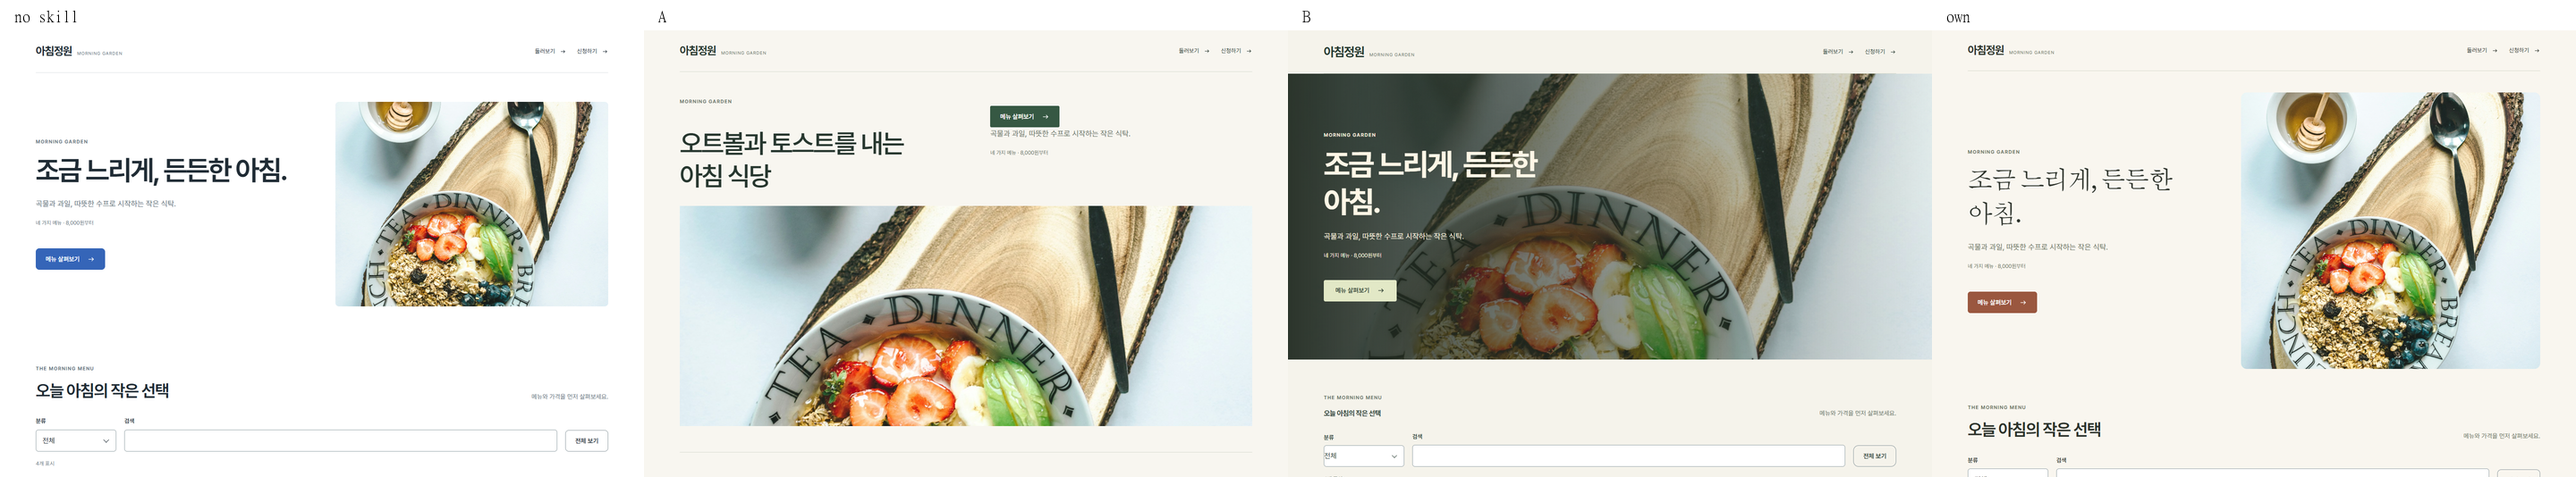
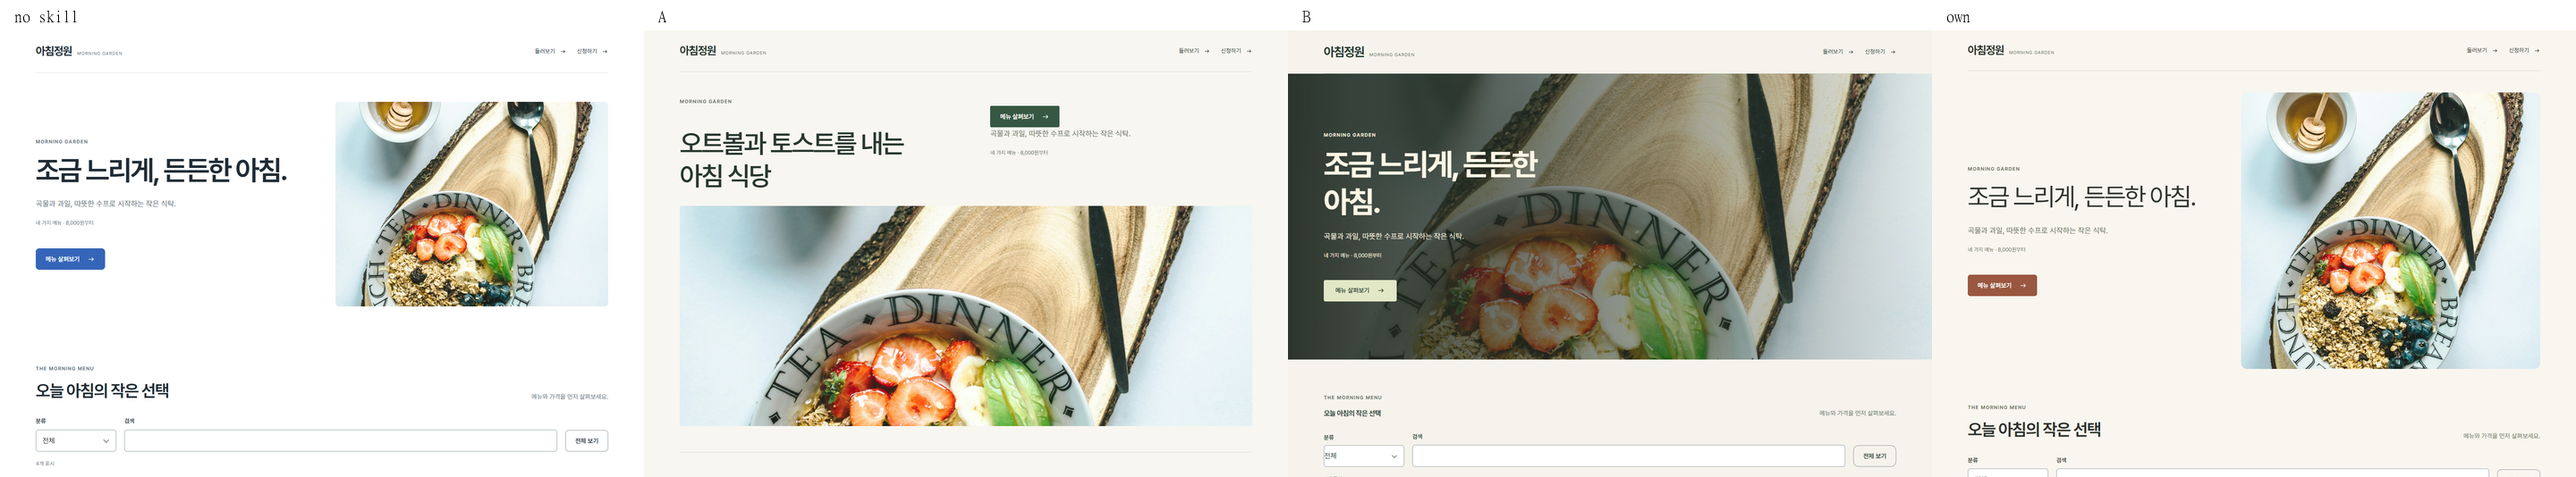
Use Pretendard as the default design font

Changed region(s): [[0.75, 0.2996, 0.875, 0.6592]]

diff --git a/src/own.css b/src/own.css
@@ -1,6 +1,6 @@
 /* 자체 스킬:자료·행동 관계, 구간 연결, 정보 묶음과 조건별 이동을 함께 설계한다. */
 body[data-category=local],body[data-category=professional]{--accent:#526247}body[data-category=restaurant]{--accent:#9a573f}body[data-category=portfolio]{--accent:#80523b}body[data-category=event]{--accent:#31566a}
-body{--paper:#f9f6ef;--ink:#2d332c;--muted:#687060;--line:#d7d9cb;--accent:#75563d;--soft:#eeeadf;--radius:9px}.site-header{padding-block:23px}.hero{padding-top:48px;padding-bottom:36px;gap:64px}.hero h1{font-size:clamp(40px,4.1vw,61px);font-weight:550}.hero-copy .btn{border-radius:6px}.hero-photo{border-radius:13px}.hero-brand{grid-template-columns:minmax(0,.95fr) minmax(0,1.05fr)}.hero-brand .hero-photo{aspect-ratio:1.35}.hero-brand+.collection{padding-top:38px}.hero-local{--accent:#586247;grid-template-columns:minmax(0,1fr) minmax(0,1.15fr);padding-bottom:22px}.hero-local .hero-photo{aspect-ratio:1.13;object-position:center 50%}.intro-note{background:#e9eddf;border-color:#c3cdb7;color:#31412d}.intro-note>span{display:inline-flex;padding:9px 13px;background:#f9faf4;border:1px solid #c3cdb7;border-radius:5px}.intro-note+.collection{padding-top:48px}.hero-restaurant{display:grid;grid-template-columns:minmax(0,.9fr) minmax(0,1.1fr);--accent:#9a573f}.hero-restaurant .hero-photo{aspect-ratio:1.08;object-position:50% 50%}.hero-restaurant h1{font-family:Georgia,'Batang',serif;font-weight:400;line-height:1.35;font-size:56px}.hero-restaurant+.collection{padding-top:42px}.menu-item{padding:26px 0}.menu-item .item-index{color:#a46147;border:1px solid #cba994;border-radius:50%;display:grid;place-items:center;min-height:27px;padding:0}.hero-portfolio{grid-template-columns:minmax(0,1fr);gap:26px}.hero-portfolio .hero-copy{display:grid;grid-template-columns:1.3fr 1fr;gap:0 40px}.hero-portfolio .hero-copy .eyebrow{grid-column:1}.hero-portfolio h1{grid-column:1;grid-row:2/4;max-width:15ch;margin-bottom:0}.hero-portfolio .hero-description{grid-column:2;grid-row:2;font-size:15px}.hero-portfolio .hero-copy>.btn{grid-column:2;justify-self:start;background:transparent;border:0;border-radius:0;border-bottom:1px solid var(--line);color:var(--ink);padding:12px 0;margin-top:16px}.hero-works{grid-template-columns:minmax(0,1.4fr) minmax(0,1fr);gap:26px;align-items:center}.hero-work{border-radius:12px;background:#e6e8df;padding:12px}.hero-work:nth-child(2){background:#ece1d4;transform:translateY(16px)}.hero-portfolio+.collection{padding-top:54px}.work-card .image-button{padding:12px;background:#e6e8df}.work-card:nth-child(2) .image-button{background:#eee0d2}.work-card:nth-child(3) .image-button{background:#dce7d1}.work-card .image-button img{aspect-ratio:1.5;border-radius:5px}.item-meta h3{font-weight:600}.hero-professional{--accent:#526247;gap:62px}.hero-professional .document{position:relative;isolation:isolate;background:#f0f1e6;border:1px solid #bdc7ad;border-radius:12px;padding:28px 30px;box-shadow:0 12px 30px #3045250c}.hero-professional .document:before{content:'';position:absolute;inset:0;transform:translate(7px,8px) rotate(-1.3deg);background:#dee5d1;border:1px solid #c8d0bb;border-radius:12px;z-index:-1;pointer-events:none}.document h2{font-weight:550;max-width:15ch}.document dl>div{grid-template-columns:78px minmax(0,1fr);padding:20px 0}.document dt{color:#526247}.hero-professional+.section{padding-top:58px}.service-panel{background:#354232;color:#f6f5e8;border-radius:12px}.service-panel>p{color:#d5ddca}.service-panel li{border-color:#65715c}.service-panel .text-button{color:#edf0e0}.service-option[aria-pressed=true]{background:#e5e9d8}.request-section{border-top:1px solid var(--line);padding-top:60px}.request-intro .demo-note{font-size:12px}.hero-event{width:100%;grid-template-columns:minmax(0,1fr);background:#233f51;color:#f9f2df;padding:38px max(48px,calc((100% - 1280px)/2)) 35px;gap:30px}.hero-event .hero-copy{display:grid;grid-template-columns:minmax(0,1.2fr) minmax(0,1fr);gap:16px 50px}.hero-event .eyebrow{color:#d8e1df}.hero-event h1{grid-column:1;grid-row:2/4;font-size:52px;max-width:16ch}.hero-event .hero-description,.hero-event .hero-fact{color:#d4ddd9;grid-column:2}.hero-event .hero-copy>.btn{grid-column:2;justify-self:start;background:#e2b36f;border-color:#e2b36f;color:#243e4a;margin:0}.hero-event .event-poster{min-height:230px;background:transparent;border-top:1px solid #6b8390;border-radius:0;padding:22px 0 0;display:grid;grid-template-columns:1fr auto;align-items:end;gap:16px;color:#e2b36f}.hero-event .event-poster>span{font-size:20px;grid-column:1}.hero-event .event-poster strong{grid-column:1;font-size:112px;font-weight:650}.hero-event .poster-lines{grid-column:2;grid-row:1/3;height:120px;align-self:center;gap:13px}.hero-event .poster-lines i{width:35px}.hero-event .event-poster small{grid-column:1/-1;color:#c4d2d5}.program{display:grid;grid-template-columns:minmax(180px,.7fr) minmax(0,2fr);gap:45px}.program .section-heading{display:block;margin:0}.program .section-heading>p{margin-top:18px}.program h2{font-size:33px}.program .schedule{min-width:0}.program .session summary{grid-template-columns:108px minmax(0,1fr) 26px;gap:18px;padding:22px 0}.program .session>p{margin-left:126px}.program .day{min-height:68px;border-radius:6px}.program .day[aria-pressed=true]{background:#e6ebed;color:#254b60;border-color:#95a9af}.program .schedule-toolbar{gap:16px}.program .session strong{font-size:20px}.app-layout{--accent:#37668e;--soft:#edf2f7;--line:#d5e0e7;grid-template-columns:minmax(0,1fr);max-width:1180px}.workspace-nav{display:none}.task-panel{box-shadow:0 7px 24px #2e587107;background:#fff}.task-app .submit,.task-app .btn{border-radius:6px}.app-heading h1{font-weight:600}.product-grid .product-card .save-button{border:0;border-bottom:1px solid var(--line);border-radius:0;background:transparent;justify-content:flex-start;padding-left:0}.product-grid .product-card .save-button[aria-pressed=true]{color:#84502e}.course .choose[aria-pressed=true]{background:#e8ecdf;color:#3c5434;border-color:#849276}
+body{--paper:#f9f6ef;--ink:#2d332c;--muted:#687060;--line:#d7d9cb;--accent:#75563d;--soft:#eeeadf;--radius:9px}.site-header{padding-block:23px}.hero{padding-top:48px;padding-bottom:36px;gap:64px}.hero h1{font-size:clamp(40px,4.1vw,61px);font-weight:550}.hero-copy .btn{border-radius:6px}.hero-photo{border-radius:13px}.hero-brand{grid-template-columns:minmax(0,.95fr) minmax(0,1.05fr)}.hero-brand .hero-photo{aspect-ratio:1.35}.hero-brand+.collection{padding-top:38px}.hero-local{--accent:#586247;grid-template-columns:minmax(0,1fr) minmax(0,1.15fr);padding-bottom:22px}.hero-local .hero-photo{aspect-ratio:1.13;object-position:center 50%}.intro-note{background:#e9eddf;border-color:#c3cdb7;color:#31412d}.intro-note>span{display:inline-flex;padding:9px 13px;background:#f9faf4;border:1px solid #c3cdb7;border-radius:5px}.intro-note+.collection{padding-top:48px}.hero-restaurant{display:grid;grid-template-columns:minmax(0,.9fr) minmax(0,1.1fr);--accent:#9a573f}.hero-restaurant .hero-photo{aspect-ratio:1.08;object-position:50% 50%}.hero-restaurant h1{font-family:var(--font);font-weight:400;line-height:1.35;font-size:56px}.hero-restaurant+.collection{padding-top:42px}.menu-item{padding:26px 0}.menu-item .item-index{color:#a46147;border:1px solid #cba994;border-radius:50%;display:grid;place-items:center;min-height:27px;padding:0}.hero-portfolio{grid-template-columns:minmax(0,1fr);gap:26px}.hero-portfolio .hero-copy{display:grid;grid-template-columns:1.3fr 1fr;gap:0 40px}.hero-portfolio .hero-copy .eyebrow{grid-column:1}.hero-portfolio h1{grid-column:1;grid-row:2/4;max-width:15ch;margin-bottom:0}.hero-portfolio .hero-description{grid-column:2;grid-row:2;font-size:15px}.hero-portfolio .hero-copy>.btn{grid-column:2;justify-self:start;background:transparent;border:0;border-radius:0;border-bottom:1px solid var(--line);color:var(--ink);padding:12px 0;margin-top:16px}.hero-works{grid-template-columns:minmax(0,1.4fr) minmax(0,1fr);gap:26px;align-items:center}.hero-work{border-radius:12px;background:#e6e8df;padding:12px}.hero-work:nth-child(2){background:#ece1d4;transform:translateY(16px)}.hero-portfolio+.collection{padding-top:54px}.work-card .image-button{padding:12px;background:#e6e8df}.work-card:nth-child(2) .image-button{background:#eee0d2}.work-card:nth-child(3) .image-button{background:#dce7d1}.work-card .image-button img{aspect-ratio:1.5;border-radius:5px}.item-meta h3{font-weight:600}.hero-professional{--accent:#526247;gap:62px}.hero-professional .document{position:relative;isolation:isolate;background:#f0f1e6;border:1px solid #bdc7ad;border-radius:12px;padding:28px 30px;box-shadow:0 12px 30px #3045250c}.hero-professional .document:before{content:'';position:absolute;inset:0;transform:translate(7px,8px) rotate(-1.3deg);background:#dee5d1;border:1px solid #c8d0bb;border-radius:12px;z-index:-1;pointer-events:none}.document h2{font-weight:550;max-width:15ch}.document dl>div{grid-template-columns:78px minmax(0,1fr);padding:20px 0}.document dt{color:#526247}.hero-professional+.section{padding-top:58px}.service-panel{background:#354232;color:#f6f5e8;border-radius:12px}.service-panel>p{color:#d5ddca}.service-panel li{border-color:#65715c}.service-panel .text-button{color:#edf0e0}.service-option[aria-pressed=true]{background:#e5e9d8}.request-section{border-top:1px solid var(--line);padding-top:60px}.request-intro .demo-note{font-size:12px}.hero-event{width:100%;grid-template-columns:minmax(0,1fr);background:#233f51;color:#f9f2df;padding:38px max(48px,calc((100% - 1280px)/2)) 35px;gap:30px}.hero-event .hero-copy{display:grid;grid-template-columns:minmax(0,1.2fr) minmax(0,1fr);gap:16px 50px}.hero-event .eyebrow{color:#d8e1df}.hero-event h1{grid-column:1;grid-row:2/4;font-size:52px;max-width:16ch}.hero-event .hero-description,.hero-event .hero-fact{color:#d4ddd9;grid-column:2}.hero-event .hero-copy>.btn{grid-column:2;justify-self:start;background:#e2b36f;border-color:#e2b36f;color:#243e4a;margin:0}.hero-event .event-poster{min-height:230px;background:transparent;border-top:1px solid #6b8390;border-radius:0;padding:22px 0 0;display:grid;grid-template-columns:1fr auto;align-items:end;gap:16px;color:#e2b36f}.hero-event .event-poster>span{font-size:20px;grid-column:1}.hero-event .event-poster strong{grid-column:1;font-size:112px;font-weight:650}.hero-event .poster-lines{grid-column:2;grid-row:1/3;height:120px;align-self:center;gap:13px}.hero-event .poster-lines i{width:35px}.hero-event .event-poster small{grid-column:1/-1;color:#c4d2d5}.program{display:grid;grid-template-columns:minmax(180px,.7fr) minmax(0,2fr);gap:45px}.program .section-heading{display:block;margin:0}.program .section-heading>p{margin-top:18px}.program h2{font-size:33px}.program .schedule{min-width:0}.program .session summary{grid-template-columns:108px minmax(0,1fr) 26px;gap:18px;padding:22px 0}.program .session>p{margin-left:126px}.program .day{min-height:68px;border-radius:6px}.program .day[aria-pressed=true]{background:#e6ebed;color:#254b60;border-color:#95a9af}.program .schedule-toolbar{gap:16px}.program .session strong{font-size:20px}.app-layout{--accent:#37668e;--soft:#edf2f7;--line:#d5e0e7;grid-template-columns:minmax(0,1fr);max-width:1180px}.workspace-nav{display:none}.task-panel{box-shadow:0 7px 24px #2e587107;background:#fff}.task-app .submit,.task-app .btn{border-radius:6px}.app-heading h1{font-weight:600}.product-grid .product-card .save-button{border:0;border-bottom:1px solid var(--line);border-radius:0;background:transparent;justify-content:flex-start;padding-left:0}.product-grid .product-card .save-button[aria-pressed=true]{color:#84502e}.course .choose[aria-pressed=true]{background:#e8ecdf;color:#3c5434;border-color:#849276}
 @media(hover:hover) and (prefers-reduced-motion:no-preference){.btn .arrow,.text-button .arrow{transition:transform 260ms cubic-bezier(.22,.61,.36,1)}.btn:hover .arrow,.text-button:hover .arrow{transform:translateX(3px)}.image-button{transition:transform 420ms cubic-bezier(.22,.61,.36,1)}.image-button:hover,.image-button:focus-visible{transform:translateY(-4px)}.image-button img{transition:transform 520ms cubic-bezier(.22,.61,.36,1)}.image-button:hover img{transform:scale(1.02)}.hero-work{transition:transform 450ms cubic-bezier(.22,.61,.36,1)}.hero-work:hover,.hero-work:focus-visible{transform:translateY(-4px)}.hero-work:nth-child(2):hover,.hero-work:nth-child(2):focus-visible{transform:translateY(11px)}.toggle-icon{transition:transform 240ms cubic-bezier(.22,.61,.36,1)}}
 @media(prefers-reduced-motion:no-preference){.hero-media{animation:own-scene 650ms cubic-bezier(.22,.61,.36,1) both}@keyframes own-scene{from{opacity:0;translate:0 12px}to{opacity:1;translate:0 0}}}
 @media(max-width:1050px){.hero{gap:32px}.hero h1{font-size:44px}.hero-restaurant h1{font-size:46px}.hero-event{padding-inline:32px}.hero-event .hero-copy{gap:16px 32px}.hero-event h1{font-size:43px}.program{grid-template-columns:minmax(0,1fr);gap:28px}.program .section-heading{display:flex;align-items:start;gap:28px}.program h2{max-width:15ch}.program .section-heading>p{margin-top:0}.hero-professional .document{padding:24px}.hero-portfolio .hero-copy{gap:0 32px}}

diff --git a/skills/korean-ui-design/references/typography.md b/skills/korean-ui-design/references/typography.md
@@ -4,11 +4,13 @@
 
 Pretendard는 한글과 라틴 문자를 함께 쓸 수 있다. 본문을 한글·영문으로 무조건 분리할 필요는 없다. Apple SD Gothic Neo를 대표 영문 글꼴로 설명하지 않는다. Apple 플랫폼의 대표 시스템 서체는 SF Pro이며 웹에서는 `-apple-system`·`system-ui`로 해당 환경의 시스템 글꼴을 참조한다. Windows 등에서 같은 모양이 된다고 보장하지 않는다.
 
-`FONT_POLICY`는 다음 중 프로젝트 조건에 맞게 확정한다.
+기본 서체는 한글·영문·숫자와 제목·본문·폼 모두 Pretendard다. 별도 요구가 없으면 동봉 파일을 자체 호스팅하고 폼 요소에도 상속한다. 사용자 요청이나 확정된 브랜드 규칙이 있을 때만 별도 서체를 선택하고 적용 범위와 이유를 기록한다.
+
+`FONT_POLICY`는 기본적으로 `self-hosted`로 시작하며 다음 조건에 맞게 확정한다.
 
 | 값 | 선택 조건 | 구현과 보고 |
 |---|---|---|
-| auto | 시작 시 아직 미확정 | 기존 폰트 파일·네트워크 제약·동일한 인상 필요 여부를 확인하고 아래 두 방식 중 하나를 기록 |
+| auto | 기존 프로젝트의 제공 방식이 아직 미확정 | 기존 Pretendard 파일·네트워크 제약을 확인하고 중복 로딩 없이 제공 방식을 기록 |
 | self-hosted | Pretendard 적용 또는 플랫폼 간 일관성이 필요 | 공식 배포본·허용된 글꼴 파일을 로컬에서 제공하고 라이선스·버전·굵기·용량 기록 |
 | system | 외부 파일 없는 배포 또는 운영체제 고유 인상 | 시스템 스택 사용. Pretendard가 실제 적용됐다고 보고하지 않음 |
 
@@ -17,7 +19,7 @@ Pretendard는 한글과 라틴 문자를 함께 쓸 수 있다. 본문을 한글
 ## 기본 선택과 영문 제목
 
 - 한국어 서비스·SaaS 본문: 제공 가능한 Pretendard 한 패밀리로 혼용 문장을 우선 구성한다. 업무 숫자는 필요한 영역에만 `font-variant-numeric: tabular-nums`를 적용한다.
-- 브랜드·행사·포트폴리오: 본문은 안정적으로 유지하고, 영문 대표 제목에만 별도 display 서체를 선택할 수 있다. 주제·실제 에셋·굵기·라이선스를 근거로 정하고 두 번째 서체가 정보를 더 잘 표현하는지 확인한다. ‘프리미엄이므로 두 폰트’처럼 결정하지 않는다.
+- 브랜드·행사·포트폴리오도 제목과 본문에 Pretendard를 기본 적용한다. 별도 display 서체는 사용자 요청이나 확정된 브랜드 규칙이 있을 때만 선택하고 실제 에셋·굵기·라이선스를 확인한다. ‘프리미엄이므로 두 폰트’처럼 결정하지 않는다.
 - `font-family: Pretendard, Geist, ...`는 문자별 fallback 순서다. Pretendard가 영문 글자를 갖고 있으면 뒤의 Geist가 영문에 자동 적용되지 않는다. 필요할 때 실제 영문 요소에 `.display-latin` 등 역할 클래스로 별도 지정한다. `lang` 속성은 실제 언어 의미에 맞게 쓴다.
 - Latin 전용 서체의 `0.95` 행간·강한 음수 자간을 한글 혼용 제목에 그대로 적용하지 않는다. 한국어·혼용 제목은 1.2~1.35, 본문 1.6~1.75 정도에서 실제 글자와 폭에 맞춰 조절한다. 숫자는 품질 점수나 고정 제한이 아니다.
 

diff --git a/skills/korean-ui-design/SKILL.md b/skills/korean-ui-design/SKILL.md
@@ -39,7 +39,7 @@ description: 한국어 브랜드·매장·포트폴리오·행사·업무 UI를 
 - **색:** 브랜드·사진·콘텐츠로 정하고 바탕/본문/보조/행동/선택/오류의 역할을 일관되게 연결한다. 업종만으로 녹색·미색·다크 모드를 고정하지 않는다.
 - **자료:** 사진 상자뿐 아니라 피사체 크기·빛·크롭·캡션·다음 행동을 맞춘다. 작업·상품 상세는 선택한 자료와 같은 대상을 보여준다. 참고 이미지와 실제 제품/장소/고객 자료를 구분한다.
 - **정보 밀도:** 목록에는 비교에 필요한 이름·상태·가격·분야를 남기고 긴 판단 근거는 접근 가능한 상세로 옮긴다. 동등 비교 카드의 폭·이미지·캡션·행동 축을 맞추며 의도한 비대칭은 강조 목적과 읽는 순서를 설명한다.
-- **한국어:** lang=ko·UTF-8·viewport를 설정한다. 실제 한글/라틴/숫자와 로드된 글꼴로 줄바꿈·굵기·행간을 확인한다. Pretendard는 선택 가능한 한영 서체이며 기존 브랜드와 실제 제공 파일이 우선이다.
+- **한국어:** lang=ko·UTF-8·viewport를 설정한다. 기본 서체는 한글·영문·숫자 모두 Pretendard로 한다. 실제 파일을 제공하고 입력·선택·버튼도 상속한다. 별도 서체는 사용자 요청이나 확정된 브랜드 규칙이 있을 때 선택하고 이유를 기록한다. 실제 로드된 글꼴로 줄바꿈·굵기·행간을 확인한다.
 - **조작:** 보이는 label·키보드 초점·오류 연결·복구·Escape·대화상자 초점 복귀를 구현한다. 선택 컨트롤의 필수 값/문구/개수는 구현에서 추출하지 않은 요구 계약과 실제 파싱 DOM을 대조하고 각 필수 선택값이 연결된 결과까지 도달하는지 확인한다. 대표 흐름 하나나 JS 구문 통과로 누락 검사를 대신하지 않는다.
 - **정렬:** 아이콘과 문구의 내부 중앙/첫 줄, 그 묶음과 컨테이너의 가로 배치를 각각 결정한다. 글꼴 로드 후 짧은/긴 문구·오류·확대 상태에서 확인한다. 광학 중심과 상자 중심은 별도 판단이다. 나란한 select·검색·버튼은 실제 조작 높이와 상하 기준선, 라벨/필드 간격을 대조하고 장식선과 입력 경계의 색 역할을 분리한다. 셀렉트 표시를 통일할 때는 네이티브 기능을 유지하고 화살표 크기·우측 여백·문구 안전 영역을 공통 계약으로 검증한다.
 - **모션:** 대상·계기·즉시 바뀌는 정보·장식의 끝 상태를 정한다. 장면 등장, 조작 피드백, 상태 표식을 구분한다. 빠른 왕복·중단·터치·키보드·모션 감소에서도 핵심 정보와 기능을 유지한다. 예제의 색·시간·전체 레이아웃을 일괄 적용하지 않는다.

diff --git a/README.md b/README.md
@@ -2,6 +2,8 @@
 
 한국어 웹사이트의 조판·사진·색감·정렬·반응형 구성과 상황에 맞는 모션을 설계하기 위한 재사용 가능한 디자인 스킬입니다. 카테고리별 MD, 에셋 선택 기준, 실행 가능한 모션 예제와 검토 기준을 포함합니다.
 
+기본 글꼴은 한글·영문·숫자 모두 **Pretendard**입니다. 동봉된 웹폰트를 자체 호스팅하며 제목·본문·폼 요소에 적용합니다. 별도 서체는 사용자 요청이나 확정된 브랜드 규칙이 있을 때 선택합니다.
+
 아래 비교 페이지에서는 같은 한국어 과제와 새 콘텐츠로 작성한 **no skill / A / B / 자체 스킬**을 살펴볼 수 있습니다. 7개 카테고리, 총28개 시안과 공통 기능 검사 결과를 제공합니다. 모든 브랜드·상품·작품·일정은 비교를 위한 가상 자료입니다.
 
 ## 디자인 비교

diff --git a/skills/korean-ui-design/assets/DESIGN.md b/skills/korean-ui-design/assets/DESIGN.md
@@ -21,6 +21,8 @@
 
 ## 색·조판·자료
 
+기본 서체는 한글·영문·숫자 모두 Pretendard이며 제목·본문·버튼·input·select·textarea에 일관되게 적용한다. 실제 폰트 파일과 라이선스를 제공하고 로딩 후 적용을 확인한다. 별도 서체는 사용자 요청이나 확정된 브랜드 규칙이 있을 때만 적용 범위와 이유를 기록한다.
+
 | 역할 | 실제 선택·값 | 내용/브랜드에 맞는 이유 |
 |---|---|---|
 | 바탕·본문·보조·행동·선택·오류 | | |
